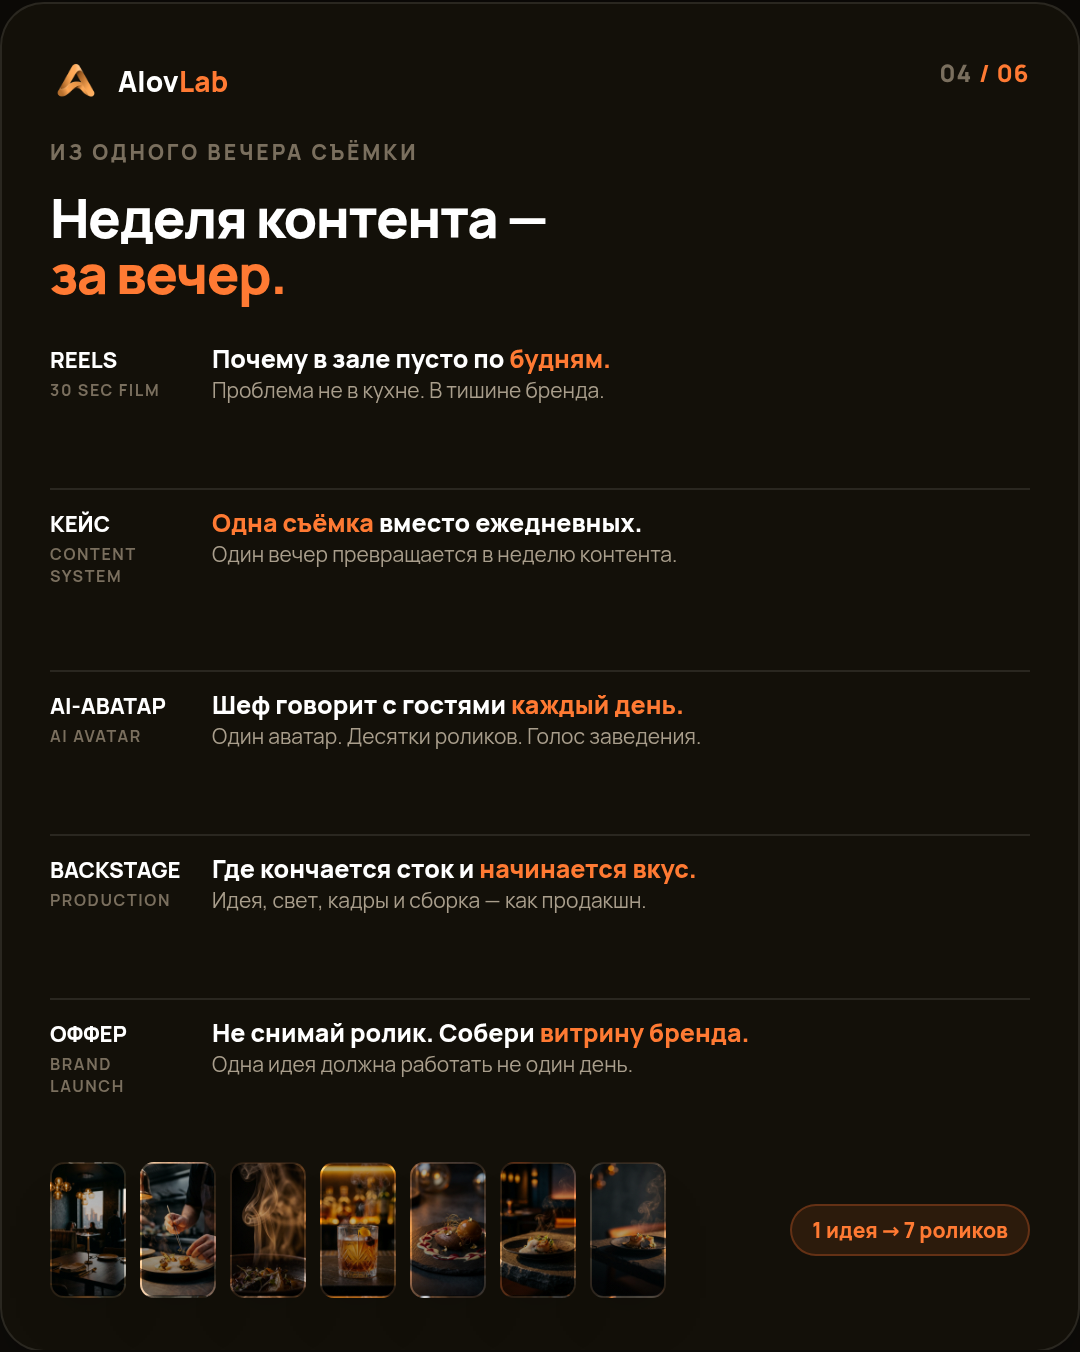
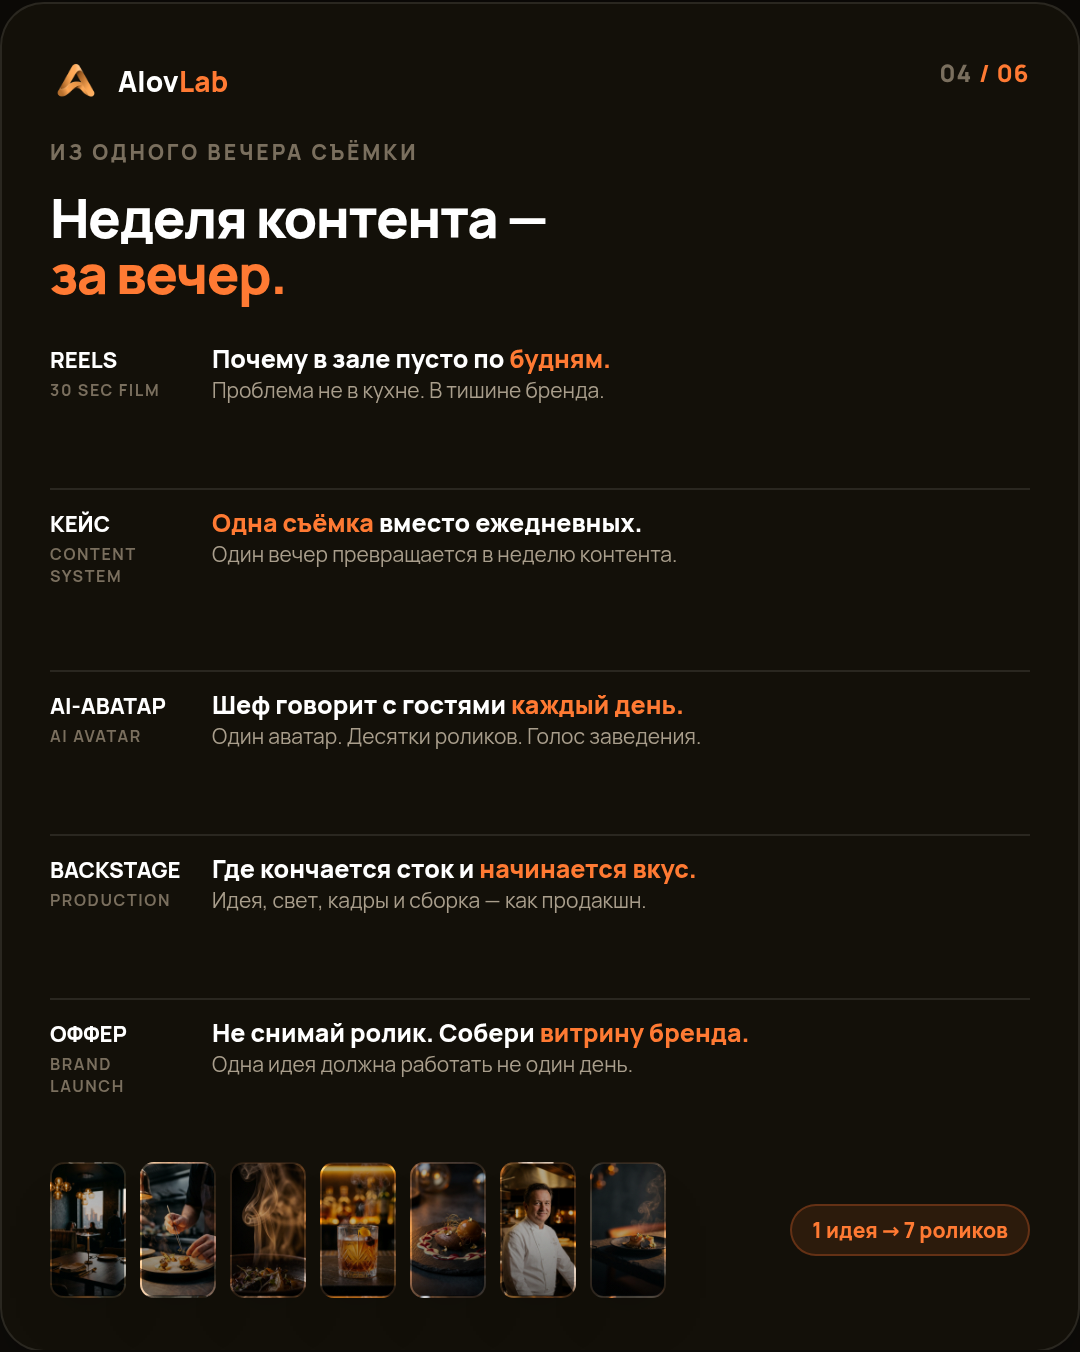
feat(carousels): портрет шефа в ленте недели (ресторан)
Одиночный гребешок в week-strip заменён на портрет шефа — усиливает
ряд AI-АВАТАР «шеф говорит». Тот же кадр — лицо для HeyGen-ролика.

Claude-Session: https://claude.ai/code/session_019LoRMaWcrsShywAHDg8vmg

Changed region(s): [[0.4583, 0.8388, 0.55, 0.963]]

diff --git a/scripts/carousel_render.py b/scripts/carousel_render.py
@@ -339,7 +339,7 @@ CONFIGS = {
       "content/carousel-assets/restaurant/hf_20260805_135919_a369f62b-4716-4359-a170-6708128ba9a3.png",
       "content/carousel-assets/restaurant/hf_20260805_135919_277be4a0-3f10-4ef1-8476-6322a52e1f50.png",
       "content/carousel-assets/restaurant/hf_20260805_135919_96430fe8-fa0a-48ff-875b-097bedcaf848.png",
-      "content/carousel-assets/restaurant/hf_20260805_131843_164fe080-d862-4b73-a1b7-dbe6f4662e9f.png",
+      "content/carousel-assets/restaurant/hf_20260805_140559_e09977d3-1fba-4645-8d01-95522ce3eee8.png",
       "content/carousel-assets/restaurant/hf_20260805_131843_27649360-b457-42af-a557-5abcdd8446fa.png",
     ],
     "cta_photos": [
